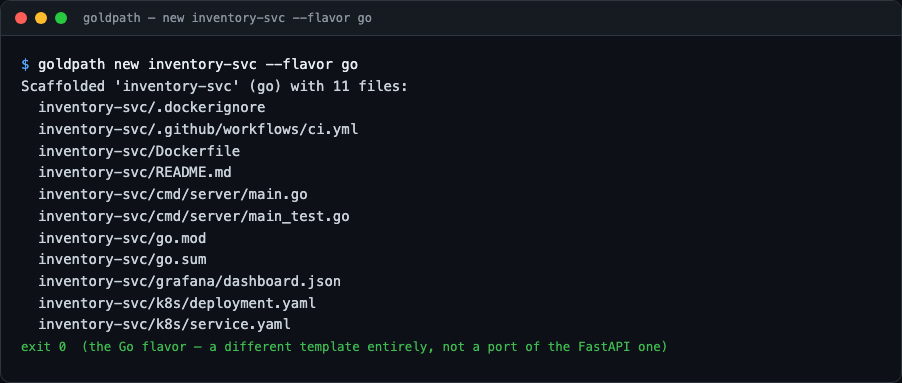
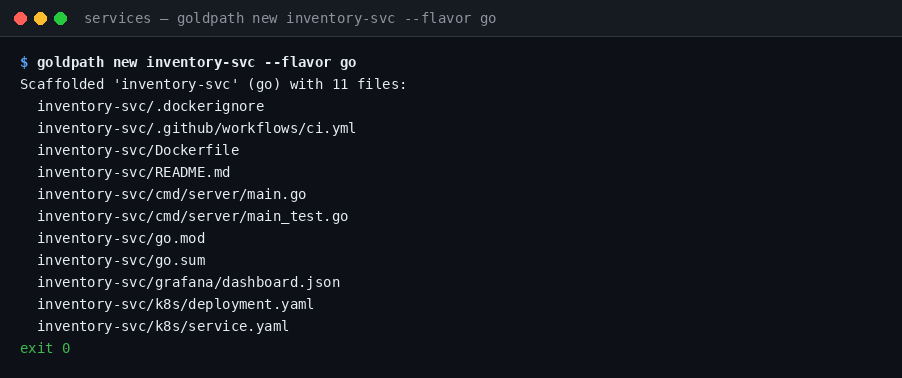
docs: regenerate terminal screenshots from real command output
The previous terminal images did not match what the commands print:
- 04/08 omitted the '# HELP' / '# TYPE' lines that the shown grep
  matches, and their counter values came from traffic not shown
  (/docs, a POST, six /healthz hits).
- 04's command printed the /healthz JSON with no trailing newline, so
  the real output ran into the first metrics line.
- 04, 05, 06 and 08 had commentary lines in the output area that no
  command printed.

docs/screenshots/capture.py now generates every terminal image by
running the displayed command verbatim against freshly generated
services and freshly started servers, and rendering the captured
stdout/stderr and exit status. 03 (Swagger UI) was checked against the
live service's /openapi.json and is unchanged.

diff --git a/docs/screenshots/capture.py b/docs/screenshots/capture.py
@@ -1,0 +1,234 @@
+"""Regenerate the terminal screenshots in docs/screenshots/.
+
+Every image is produced by running the command it displays (via
+``bash -c``) and rendering its real combined stdout/stderr and exit code.
+Nothing is typed or edited by hand: the command string drawn in the image is
+the exact string that ran, in the working directory named in the title bar.
+
+Setup that is *not* shown (generating the services the later shots run in,
+downloading Go modules, starting the servers) happens before the shots that
+need it and is printed to this script's own stderr.
+
+Requirements (not dependencies of goldpath itself):
+  - ``goldpath`` on PATH (``pip install -e .``)
+  - Pillow, plus fastapi / uvicorn / prometheus-client importable by this
+    interpreter (the generated FastAPI service's requirements.txt)
+  - ``go``, ``curl`` and ``python3`` on PATH; ports 8000 and 8080 free
+
+Usage:
+    python docs/screenshots/capture.py
+"""
+
+from __future__ import annotations
+
+import os
+import shutil
+import socket
+import subprocess
+import sys
+import tempfile
+import time
+from pathlib import Path
+
+from PIL import Image, ImageDraw, ImageFont
+
+OUT_DIR = Path(__file__).resolve().parent
+
+WIDTH = 902
+PAD_X = 20
+TITLE_H = 36
+PAD_TOP = 18
+PAD_BOTTOM = 16
+FONT_SIZE = 14
+LINE_H = 22
+MAX_OUTPUT_LINES = 40
+
+BG = (13, 17, 23)
+TITLE_BG = (22, 27, 34)
+BORDER = (48, 54, 61)
+FG = (230, 237, 243)
+DIM = (139, 148, 158)
+PROMPT = (88, 166, 255)
+OK = (63, 185, 80)
+FAIL = (248, 81, 73)
+DOTS = ((255, 95, 86), (255, 189, 46), (39, 201, 63))
+
+FONT_CANDIDATES = (
+    "/usr/share/fonts/truetype/dejavu/DejaVuSansMono.ttf",
+    "/usr/share/fonts/TTF/DejaVuSansMono.ttf",
+    "/Library/Fonts/DejaVuSansMono.ttf",
+)
+BOLD_CANDIDATES = tuple(p.replace("Mono.ttf", "Mono-Bold.ttf") for p in FONT_CANDIDATES)
+
+
+def _font(candidates: tuple[str, ...], size: int) -> ImageFont.FreeTypeFont:
+    for path in candidates:
+        if Path(path).is_file():
+            return ImageFont.truetype(path, size)
+    sys.exit("error: DejaVu Sans Mono not found; install fonts-dejavu-core")
+
+
+def log(msg: str) -> None:
+    print(f"[capture] {msg}", file=sys.stderr)
+
+
+def run(command: str, cwd: Path) -> tuple[str, int]:
+    proc = subprocess.run(
+        ["bash", "-c", command],
+        cwd=cwd,
+        stdout=subprocess.PIPE,
+        stderr=subprocess.STDOUT,
+        text=True,
+        env={**os.environ, "NO_COLOR": "1"},
+    )
+    return proc.stdout, proc.returncode
+
+
+def setup(command: str, cwd: Path) -> None:
+    log(f"setup ({cwd.name}): {command}")
+    subprocess.run(["bash", "-c", command], cwd=cwd, check=True)
+
+
+def wrap(text: str, cols: int) -> list[str]:
+    """Hard-wrap at the terminal width, the way a terminal does."""
+    lines: list[str] = []
+    for raw in text.expandtabs(8).split("\n"):
+        while len(raw) > cols:
+            lines.append(raw[:cols])
+            raw = raw[cols:]
+        lines.append(raw)
+    return lines
+
+
+def render(path: Path, title: str, command: str, output: str, code: int) -> None:
+    font = _font(FONT_CANDIDATES, FONT_SIZE)
+    bold = _font(BOLD_CANDIDATES, FONT_SIZE)
+    char_w = font.getlength("M")
+    cols = int((WIDTH - 2 * PAD_X) // char_w)
+
+    cmd_lines = wrap("$ " + command, cols)
+    out_lines = wrap(output.rstrip("\n"), cols) if output.strip() else []
+    if len(out_lines) > MAX_OUTPUT_LINES:
+        out_lines = out_lines[:MAX_OUTPUT_LINES] + ["... (output truncated)"]
+
+    rows = len(cmd_lines) + len(out_lines) + 1
+    height = TITLE_H + PAD_TOP + rows * LINE_H + PAD_BOTTOM
+    img = Image.new("RGB", (WIDTH, height), BG)
+    draw = ImageDraw.Draw(img)
+
+    draw.rectangle([0, 0, WIDTH - 1, TITLE_H], fill=TITLE_BG)
+    draw.line([0, TITLE_H, WIDTH, TITLE_H], fill=BORDER)
+    for i, color in enumerate(DOTS):
+        cx = 20 + i * 20
+        draw.ellipse([cx - 6, TITLE_H // 2 - 6, cx + 6, TITLE_H // 2 + 6], fill=color)
+    draw.text((84, TITLE_H // 2), title, font=font, fill=DIM, anchor="lm")
+
+    y = TITLE_H + PAD_TOP
+    for i, line in enumerate(cmd_lines):
+        x = PAD_X
+        if i == 0:
+            draw.text((x, y), "$", font=bold, fill=PROMPT)
+            x += 2 * char_w
+            line = line[2:]
+        draw.text((x, y), line, font=bold, fill=FG)
+        y += LINE_H
+    for line in out_lines:
+        draw.text((PAD_X, y), line, font=font, fill=FG)
+        y += LINE_H
+    draw.text((PAD_X, y), f"exit {code}", font=font, fill=OK if code == 0 else FAIL)
+    img.save(path)
+
+
+def shot(filename: str, cwd: Path, command: str) -> None:
+    output, code = run(command, cwd)
+    title = f"{cwd.name} — {command if len(command) <= 70 else command[:67] + '...'}"
+    render(OUT_DIR / filename, title, command, output, code)
+    log(f"wrote {filename} (exit {code})")
+    if code != 0:
+        sys.exit(f"error: {command!r} exited {code}:\n{output}")
+
+
+def wait_for_port(port: int, proc: subprocess.Popen, timeout: float = 30) -> None:
+    # A bare TCP connect, so the readiness check never shows up in the metrics.
+    deadline = time.monotonic() + timeout
+    while time.monotonic() < deadline:
+        if proc.poll() is not None:
+            sys.exit(f"error: server for port {port} exited with {proc.returncode}")
+        try:
+            with socket.create_connection(("127.0.0.1", port), timeout=0.5):
+                return
+        except OSError:
+            time.sleep(0.2)
+    sys.exit(f"error: nothing listening on port {port} after {timeout}s")
+
+
+def port_free(port: int) -> bool:
+    with socket.socket() as s:
+        return s.connect_ex(("127.0.0.1", port)) != 0
+
+
+def serve(argv: list[str], cwd: Path, port: int) -> subprocess.Popen:
+    log(f"setup ({cwd.name}): {' '.join(argv)} &")
+    proc = subprocess.Popen(argv, cwd=cwd, stdout=subprocess.DEVNULL, stderr=subprocess.DEVNULL)
+    wait_for_port(port, proc)
+    return proc
+
+
+def main() -> None:
+    for tool in ("goldpath", "go", "curl", "python3"):
+        if shutil.which(tool) is None:
+            sys.exit(f"error: {tool} not found on PATH")
+    for port in (8000, 8080):
+        if not port_free(port):
+            sys.exit(f"error: port {port} is already in use")
+
+    with tempfile.TemporaryDirectory() as tmp:
+        work = Path(tmp) / "services"
+        work.mkdir()
+        orders = work / "orders-api"
+        inventory = work / "inventory-svc"
+
+        shot("01-new.png", work, "goldpath new orders-api --flavor fastapi")
+        shot("02-list.png", work, "goldpath list")
+        shot("06-new-go.png", work, "goldpath new inventory-svc --flavor go")
+
+        shot(
+            "05-grafana.png",
+            orders,
+            "python3 -c \"import json; d=json.load(open('grafana/dashboard.json')); "
+            "print('title:', d['title']); "
+            "[print(f'  panel: {p[\\\"title\\\"]!r} ({p[\\\"type\\\"]})') for p in d['panels']]\"",
+        )
+
+        server = serve(
+            [sys.executable, "-m", "uvicorn", "app.main:app", "--port", "8000"], orders, 8000
+        )
+        try:
+            shot(
+                "04-metrics.png",
+                orders,
+                "curl -s -w '\\n' localhost:8000/healthz && "
+                "curl -s localhost:8000/metrics | grep orders_api_requests_total",
+            )
+        finally:
+            server.terminate()
+            server.wait()
+
+        setup("go mod download", inventory)
+        shot("07-go-build-test.png", inventory, "go build -o inventory-svc ./cmd/server && go test ./...")
+
+        server = serve(["./inventory-svc"], inventory, 8080)
+        try:
+            shot(
+                "08-go-metrics.png",
+                inventory,
+                "curl -s localhost:8080/healthz && "
+                "curl -s localhost:8080/metrics | grep requests_total",
+            )
+        finally:
+            server.terminate()
+            server.wait()
+
+
+if __name__ == "__main__":
+    main()

diff --git a/README.md b/README.md
@@ -18,6 +18,10 @@ live traffic — the interactive API docs it ships with, out of the box:
 <details>
 <summary>More views</summary>
 
+The terminal images below are produced by
+[`docs/screenshots/capture.py`](docs/screenshots/capture.py), which runs
+each displayed command and renders its real output and exit code.
+
 ![goldpath new, scaffolding 13 files](docs/screenshots/01-new.png)
 
 ![goldpath list: available flavors](docs/screenshots/02-list.png)
